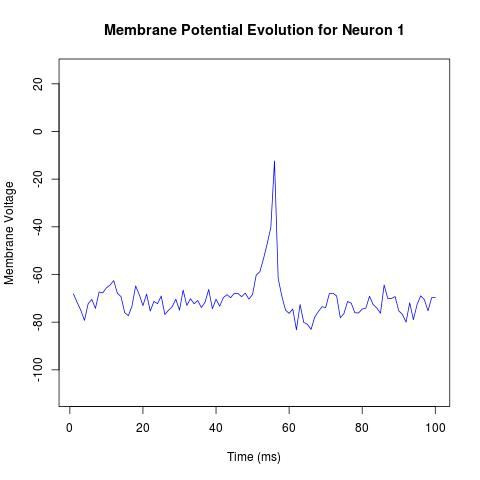
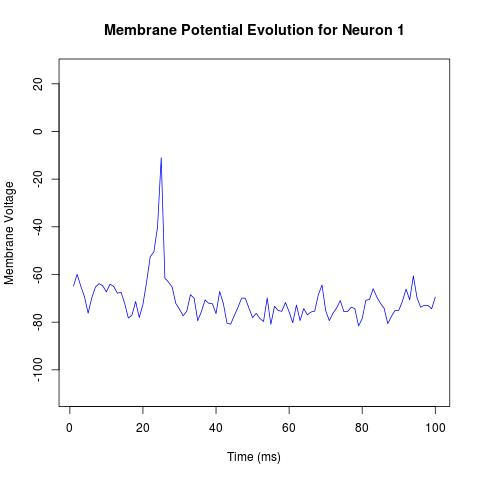
input generator modified to output compact float point; String concatenation substituted by StringBuilder

diff --git a/input_generator.py b/input_generator.py
@@ -1,21 +1,26 @@
 #!/usr/bin/env python
 
+
 """
 Generate input data for MapReduce job for neuronal modeling.
 The generated input file is a text file with each line represents a neuron.
+
 
 The line is in the following format:
  ^neuron id; neuron type; number of iteration; a; b; c; d; membrane recovery variable (u); membrane potential (v);
  synaptic weight summation; synaptic connection weights (elements delimited by comma); fired or not (Y/N)$
 """
 
+
 import numpy
 import os
 import shutil
 #import matplotlib.pyplot as plt
 
+
 DEBUG = False
 #DEBUG = True
+
 
 def generate_abcduv(Ne, Ni):
     """
@@ -28,35 +33,46 @@ def generate_abcduv(Ne, Ni):
     re = numpy.random.rand(Ne)
     ri = numpy.random.rand(Ni)
 
+
     a_e = 0.02 * numpy.ones(Ne)
     a_i = 0.02 + 0.08*ri
+
 
     # a is an array with Ne+Ni elements
     a = numpy.concatenate((a_e, a_i))
 
+
     b_e = 0.2 * numpy.ones(Ne)
     b_i = 0.25 - 0.05*ri
+
 
     # b is an array with Ne+Ni elements
     b = numpy.concatenate((b_e, b_i))
 
+
     c_e = -65 + 15 * (re ** 2)
     c_i = -65 * numpy.ones(Ni)
+
 
     # c is an array with Ne+Ni elements
     c = numpy.concatenate((c_e, c_i))
 
+
     d_e = 8 - 6 * (re ** 2)
     d_i = 2 * numpy.ones(Ni)
+
 
     # d is an array with Ne+Ni elements
     d = numpy.concatenate((d_e, d_i))
 
+
     v = -65 * numpy.ones(Ne+Ni)
     u = b * v
 
+
     ## No need to generate the whole weight matrix in a whole.
     ## Matrix operation is time consuming, waste too much memeory buffer!
+
 
     # S_e = 0.5 * numpy.random.rand(Ne+Ni, Ne)
     # S_i = -1.0 * numpy.random.rand(Ne+Ni, Ni)
@@ -67,14 +83,18 @@ def generate_abcduv(Ne, Ni):
     ## Transpose the matrix so that we can extract weights for each neuron row by row.
     # S = S.transpose()
 
+
     if DEBUG:
         print 'length of v:', len(v)
         print 'v =', v
 
+
         print 'length of u:', len(u)
         print 'u =', u
 
+
     return a, b, c, d, u, v
+
 
 def plot_data(u, v, S):
     plt.clf()
@@ -91,6 +111,7 @@ def plot_data(u, v, S):
     plt.imshow(S)
     plt.show()
 
+
 def get_weights(num_of_neurons, neuron_type):
     """Returns an array of synaptic weights given
     total number of neurons and type of neuron."""
@@ -100,15 +121,24 @@ def get_weights(num_of_neurons, neuron_type):
     if neuron_type == 'i':
         return -1 * numpy.random.rand(num_of_neurons)
 
+
+def format_float(x):
+    """Formats a float number 'x' with precision of 2
+    and returns it as a string."""
+    return '%.2f' % x
+
     
 def main():
     Ne = 800 # Number of Excitatory neurons
     Ni = 200 # Number of Inhibitory neurons
 
+
     SUM = 0 # Initial summation of synaptic connection is 0.
+
 
     a, b, c, d, u, v = generate_abcduv(Ne, Ni)
     #plot_data(u,v,S)
+
 
     # Indicate this is input data generated by Python.
     input_dir = './input_by_py'
@@ -116,6 +146,7 @@ def main():
         shutil.rmtree(input_dir)
         
     os.mkdir(input_dir)
+
 
     fname_neuron = os.path.join(input_dir, 'neurons.txt')
     fp_neuron = open(fname_neuron, 'w')
@@ -126,30 +157,36 @@ def main():
         ## Neuron ID, starts from 1
         line = str(neuron_id+1) + ';'
 
+
         # Neuron type: excitatory
         if neuron_id < Ne:
             neuron_type = 'e' # Neuron type: excitatory
         else:
             neuron_type = 'i' # Neuron type: inhibitory
 
+
         line += neuron_type + ';'
         # Number of Iteration that has been done.
         line += '0' + ';'
 
-        line += str(a[neuron_id]) + ';'
-        line += str(b[neuron_id]) + ';'
-        line += str(c[neuron_id]) + ';'
-        line += str(d[neuron_id]) + ';'
-        line += str(u[neuron_id]) + ';'
-        line += str(v[neuron_id]) + ';'
+
+        line += '%.2f' % a[neuron_id] + ';'
+        line += '%.2f' % b[neuron_id] + ';'
+        line += '%.2f' % c[neuron_id] + ';'
+        line += '%.2f' % d[neuron_id] + ';'
+        line += '%.2f' % u[neuron_id] + ';'
+        line += '%.2f' % v[neuron_id] + ';'
         line += '0' + ';' # Initial summation of synaptic connection is 0
         line += 'N\n' # intitial, all neurons are not fired. 'Y' represents fired.
 
+
         fp_neuron.write(line)
 
-        weights = ','.join(map(str, get_weights(Ne+Ni, neuron_type)))
-        weights += '\n'
-        fp_matrix.write(weights)
+        weights = map(format_float, get_weights(Ne+Ni, neuron_type))
+        weights_line = ','.join(weights)
+        weights_line += '\n'
+        fp_matrix.write(weights_line)
+
 
     fp_neuron.close()
     fp_matrix.close()
@@ -157,3 +194,4 @@ def main():
 
 if __name__ == '__main__':
     main()
+

diff --git a/src/main/java/edu/stthomas/neuronhadoop/Neuron.java b/src/main/java/edu/stthomas/neuronhadoop/Neuron.java
@@ -22,6 +22,9 @@ public class Neuron {
 	public String fired; // A neuron fired or not.
 	public double current = 0.0; // Thalamic input current
 
+	public StringBuilder sb = new StringBuilder(60); // used for string concatenation to improve performance.
+													 // 60 is pre-calculated based on the size of input record.
+	
 	public Neuron() {
 	}
 
@@ -53,21 +56,19 @@ public class Neuron {
 	 * Convert the data fields back to a line of string.
 	 */
 	public String toLineFormat() {
-		String update = new String();
+		
+		sb.delete(0, 60); // sb is used for many times, so we need to make sure it is reset before using.
+		sb.append(this.id).append(';'); // Note: using a single char is more efficient than ";"
+		sb.append(this.iter_num).append(';');
+		sb.append(this.param_a).append(';');
+		sb.append(this.param_b).append(';');
+		sb.append(this.param_c).append(';');
+		sb.append(this.param_d).append(';');
+		sb.append(this.recovery_var).append(';');
+		sb.append(this.potential).append(';');
+		sb.append(this.synaptic_sum).append(';');
+		sb.append(this.fired);
 
-		update += Long.toString(this.id) + ";";
-		update += this.type + ";";
-		update += Integer.toString(this.iter_num) + ";";
-		update += Double.toString(this.param_a) + ";";
-		update += Double.toString(this.param_b) + ";";
-		update += Double.toString(this.param_c) + ";";
-		update += Double.toString(this.param_d) + ";";
-		update += Double.toString(this.recovery_var) + ";";
-		update += Double.toString(this.potential) + ";";
-		update += Double.toString(this.synaptic_sum) + ";";
-
-		update += this.fired;
-
-		return update;
+		return sb.toString();
 	}
 }

diff --git a/src/main/java/edu/stthomas/neuronhadoop/SynapticWeightMatrix.java b/src/main/java/edu/stthomas/neuronhadoop/SynapticWeightMatrix.java
@@ -31,7 +31,7 @@ public class SynapticWeightMatrix {
 	public ArrayList<Double> getWeightsByID(long id) {
 		ArrayList<Double> weights = new ArrayList<Double>();
 		
-		System.out.println("Size of the array list: " + this.synaptic_connection.size());
+		//System.out.println("Size of the array list: " + this.synaptic_connection.size());
 		String[] connections = this.synaptic_connection.get((int)id-1).split(",");
 		for (int i = 0; i < Model.NUM_OF_NEURONS; i++) {
 			weights.add(Double.parseDouble(connections[i]));

diff --git a/src/main/java/edu/stthomas/neuronhadoop/Model.java b/src/main/java/edu/stthomas/neuronhadoop/Model.java
@@ -19,7 +19,7 @@ public class Model extends Configured implements Tool {
 	private String IN;
 	private String OUT;
 	public final static int NUM_OF_NEURONS = 1000;
-	public final static int TIME_IN_MS = 100;
+	public final static int TIME_IN_MS = 20;
 
 	public int run(String[] args) throws Exception {
 
